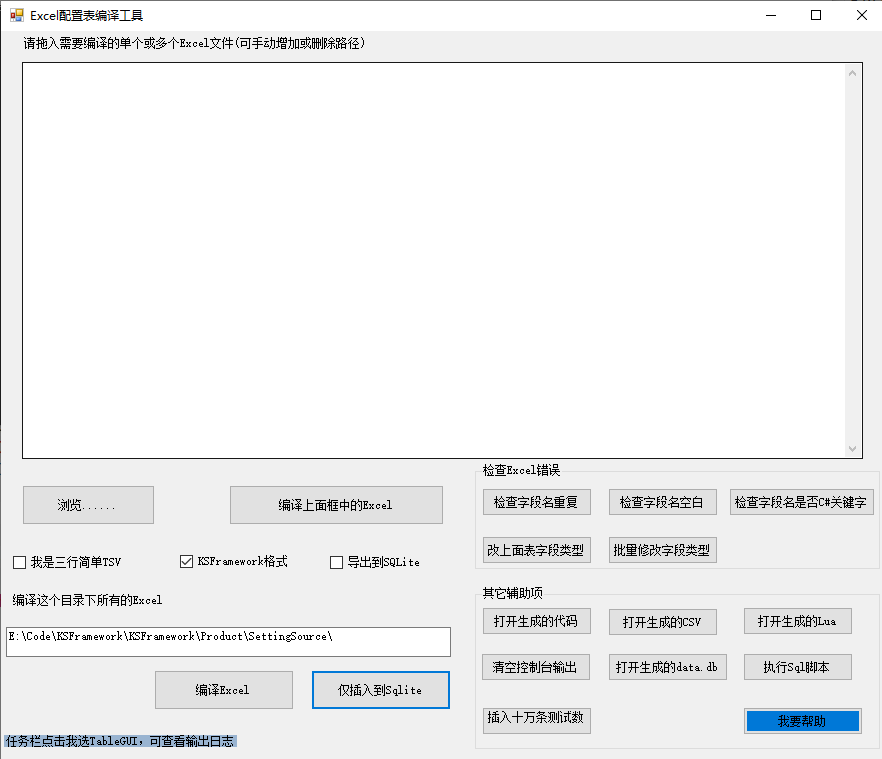
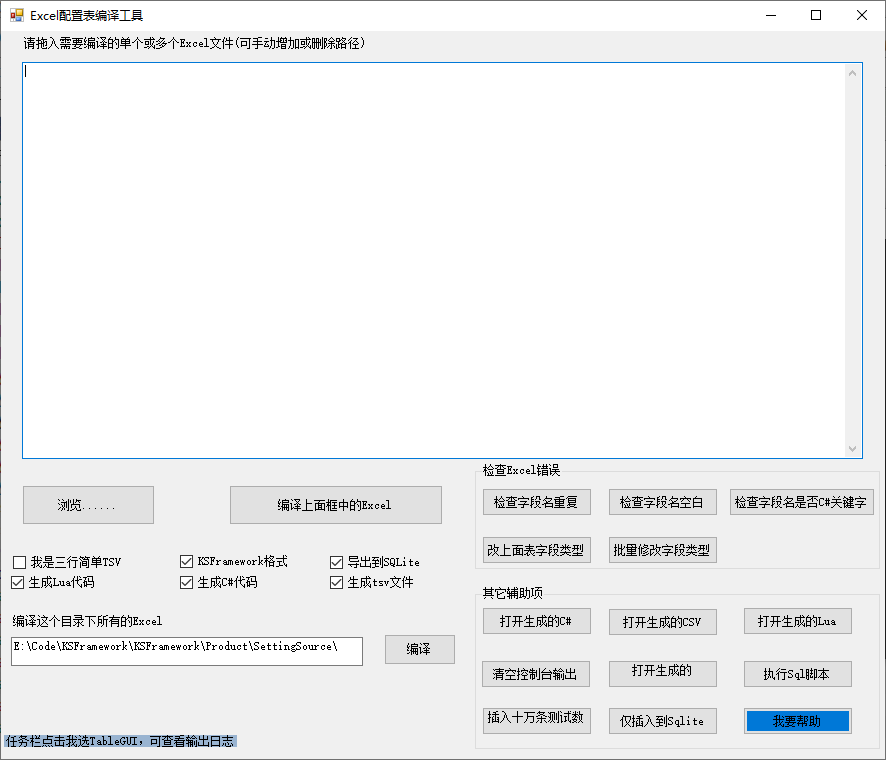
增加使用lua做为配置表的文档

diff --git a/docs/setting/guide.md b/docs/setting/guide.md
@@ -25,8 +25,8 @@
 
 1. **第一个表单（Sheet）为需要编译的内容**；
 - **表单的第一行是列名，如Id，Name等**；
-- **表单的第二行是列配置信息，如string/default，意思是列是string字符串类型，默认值是default； [KEngine](https://github.com/mr-kelly/KEngine)目前只使用前两位信息**；
-- **表单的第三行是注释，可以添加对列名的一些解释，最常用莫过于为英文的列明配上中文的注释了**；
+- **表单的第二行是列配置信息，如string/default，表示此列的数据类型是string字符串类型，默认值是default； [KEngine](https://github.com/mr-kelly/KEngine)目前只使用前两位信息**；
+- **表单的第三行是注释，可以添加对列名的一些解释，最常用莫过于为英文的列名配上中文的注释了**；
 
 最终效果如图：
 
@@ -55,7 +55,7 @@
 
 ![Excel另存为中的“制表符分隔”文本文件就是所谓的TSV](../images/setting/guide-3.png)
 
-TSV，类似CSV，即Tab-sepertated Values，类似CSV表格，仅仅是分隔符从逗号变成了Tab。 就我公司所经历的所有游戏项目，策划均直接用Excel撸TSV格式配置表。
+TSV，即Tab-sepertated Values，类似CSV表格，仅仅是分隔符从逗号变成了Tab。 就我公司所经历的所有游戏项目，策划均直接用Excel撸TSV格式配置表。
 
 KEngine配置表编译的本质，其实就是——**把Excel文件转换成纯文本TSV格式文件**。而在编译过程中，会删掉注释内容：第三行的注释，带##井号的注释等。
 
@@ -80,10 +80,11 @@ KEngine配置表编译的本质，其实就是——**把Excel文件转换成纯
 
 不过，当修改配置表时并没有打开带有KEngine的Unity工程，就无法监测到配置表的变更，这时就需要手工执行菜单的配置表格编译了。
 
-
 ## 配置表读取的代码生成
 
-根据Excel配置表的头部信息，KEngine会在Unity Assets根目录（可通过EngineConfigs.txt这个INI文件进行配置）生成一个AppSettings.cs文件。这个文件包含了所有的配置表的读取代码。
+### C#+Tsv读取配置文件
+
+根据Excel配置表的头部信息，KEngine会在Unity的Assets根目录（可通过EngineConfigs.txt这个INI文件进行配置）生成一个AppSettings.cs文件。这个文件包含了所有的配置表的读取代码。
 
 直接来看看配置表代码的调用方法——获取所有、获取某个、热重载：
 ```csharp
@@ -103,6 +104,42 @@ GameConfigSettings.GetInstance().ReloadAll(); // Reload while settings recompile
 ![生成代码的GameConfig.xlsx](../images/setting/guide-7.png)
 
 Excel表GameConfig.xlsx，会生成一个类GameConfigSettings，放置在AppSettings.cs代码文件中。
+
+### 使用Lua做为配置表文件
+
+新版本增加了把excel的内容生成到Lua文件中，在lua端做为一个table直接读取配置文件内容，就无需通过c#+tsv方式来读取。
+
+Lua文件中的前几行注解，是用于配合EmmlyLua插件在IDEA下可实现代码提示功能，使用效果如下图：
+![生成代码的GameConfig.xlsx](../images/setting/lua_code_hinting.png)
+
+关于如何使用EmmlyLua来编写Lua，可参考我的文章《[在Lua中提示UnityEngine.dll的方法](https://www.cnblogs.com/zhaoqingqing/p/8296753.html)》和《[在Unity中对Lua进行调试](https://www.cnblogs.com/zhaoqingqing/p/9121991.html)》
+
+生成的配置文件格式如下：
+
+```lua
+---auto generate by tools
+---@class Billboard
+---@field public Id string ID Column/编号/主键
+---@field public Title string 公告标题
+---@field public Content string 公告内容
+return {
+["Billboard1"] = {
+	Id="Billboard1",
+	Title="公告1XXXXXXXX",
+	Content="公告内容aaaaaaaa"
+},
+---此处省略更多的数据内容
+["Billboard4"] = {
+	Id="Billboard4",
+	Title="公告4",
+	Content="公告内容4444444444444444444444"
+}
+}
+```
+
+### 切换配置项
+
+在EngineConfigs.txt 或 AppConfigs.txt 这个INI文件修改字段 IsUseLuaConfig = 0 的值来进行切换
 
 ### 热重载
 

diff --git a/docs/setting/tableml_gui.md b/docs/setting/tableml_gui.md
@@ -1,15 +1,27 @@
-## 独立工具
+## 编译配置表工具
 
-当项目组的人数越来越多，或者配置表数量越来越多，或者出于其它目地希望把编译配置表拆分出来一个独立的工具不依赖于Unity，对于非技术人员也能友好地使用，这个GUI编译配置的工具，我们已经提供了。
+当项目组的人数越来越多，或者配置表数量越来越多，或者出于其它目地希望把编译配置表拆分出来一个独立的工具不依赖于Unity，就需要有一个GUI工具来编译配置表，本篇讲解这个TableML的GUI工具
 
-[windows可执行文件下载](https://github.com/zhaoqingqing/TableML/releases/download/v2.0/tableml_gui.zip)
+（注：目前只提供windows版本，如果是mac os 或linux 需要使用Unity进行编译配置表或 自行通过.net core进行编译gui版本）
 
-[源代码下载](https://github.com/zhaoqingqing/TableML )（如果你们的excel有其它的特殊格式或者需要自定义格式，可以修改源代码进行定制，参考 [README](https://github.com/zhaoqingqing/TableML)）
+[GUI工具下载](https://github.com/zhaoqingqing/TableML/releases/download/v2.0/tableml_gui.zip)
 
-[gui工具-快速开始](https://github.com/zhaoqingqing/TableML/blob/custom/quick_start.md)
 
-[gui工具-更新日志](https://github.com/zhaoqingqing/TableML/blob/custom/update_log.md)
 
 ## GUI界面
 
 ![TableMLGUI](../images/setting/tabml_gui_v2.png)
+
+
+
+## 快速开始
+
+参考作者的这篇文章：[GUI工具-快速开始](https://github.com/zhaoqingqing/TableML/blob/custom/quick_start.md)
+
+[GUI工具-更新日志](https://github.com/zhaoqingqing/TableML/blob/custom/update_log.md)
+
+[二次开发](https://github.com/zhaoqingqing/TableML )（如果你们的excel有特殊格式或者需要自定义格式，可以修改源代码进行定制，参考 [README](https://github.com/zhaoqingqing/TableML)）
+
+### 修改配置
+
+可通过gui.exe目录下的App.config进行配置，或者在界面上通过勾选来修改配置
